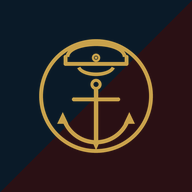
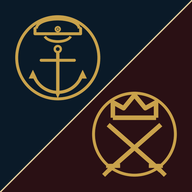
Add files via upload

diff --git a/index.html b/index.html
@@ -501,7 +501,8 @@ main.has-dock{padding-bottom:calc(var(--nav-h) + 112px + env(safe-area-inset-bot
 .panel-h{font-family:'Cinzel',serif;color:var(--brass);font-size:12.5px;text-transform:uppercase;letter-spacing:0.5px;margin:0 0 10px;}
 
 /* ---------- categorized decklist ---------- */
-.cat-group{margin-bottom:6px;}
+.cat-group{margin-bottom:6px;display:flex;flex-direction:column-reverse;}
+.cat-group > .cat-head{border-bottom:none;border-top:1px solid var(--line);}
 .cat-head{display:flex;align-items:center;gap:8px;padding:8px 2px;cursor:pointer;border-bottom:1px solid var(--line);}
 .cat-head .t{font-family:'Cinzel',serif;font-size:12.5px;color:var(--brass);text-transform:uppercase;letter-spacing:0.5px;flex:1;}
 .cat-head .n{font-size:11px;color:var(--sub-text);font-family:'JetBrains Mono',monospace;}
@@ -1073,12 +1074,13 @@ main.has-dock{padding-bottom:84px;}
 /* The current section's name rides just below the top bar; the next
    section's label pushes it out — classic sticky headers, scoped per
    section. Solid backing so it stays readable over the tiles. */
-.edh-sec > .section-label{position:sticky;top:66px;z-index:5;background:var(--bg,#2A1014);padding:6px 2px;}
+.edh-sec{display:flex;flex-direction:column;}
+.edh-sec > .section-label{order:10;position:sticky;top:auto;bottom:calc(var(--nav-h) + env(safe-area-inset-bottom));z-index:5;background:var(--ink);padding:6px 2px;}
 /* Overlays scroll inside <main>, whose top edge already sits under the
    overlay topbar — the 66px offset above is browse-page tuning (under the
    app nav) and pins the label mid-screen there. Hug the scrollport instead. */
-.overlay main .edh-sec > .section-label{top:0;}
-#recoOverlay .edh-sec > .section-label{top:var(--reco-sticky, 0px) !important;z-index:6;}
+.overlay main .edh-sec > .section-label{top:auto;bottom:0;}
+#recoOverlay .edh-sec > .section-label{top:auto !important;bottom:0;z-index:6;}
 #recoOverlay .edh-jump-row{top:calc(var(--reco-sticky, 0px) + 4px) !important;z-index:7;}
 .edh-jump-row{top:70px;}
 .reco-theme-banner{width:fit-content;margin:0 auto 8px;padding:6px 14px;border:1px solid var(--brass);border-radius:999px;color:var(--brass);font-size:13px;font-weight:600;text-align:center;}
@@ -3325,21 +3327,15 @@ const LS_PREFIX = 'admiral_app:';
    BOTH languages every release). Every
    player sees the popup exactly once after the update lands. Also bump the
    VERSION string in sw.js so phones fetch the new build. */
-const APP_VERSION = '2.51.250';
+const APP_VERSION = '2.51.251';
 const CHANGELOG_NOTES = {
   en: [
-    'Spoilers: each day\u2019s date shelf now sits UNDER its cards, and a set\u2019s name, release date and preview count moved to the foot of its page.',
-    'Every card grid now reads upward \u2014 search results, decklists, My Stuff, collection, binders, printings and recommendations start at the bottom (A, most popular, most recent by the thumb) and climb.',
-    'Fresh search results open at the foot of the page.',
-    'Inspiration: the welcome text steps aside as soon as results show, and the Commander fleet now opens with \u201CFind Your Commander\u201D.',
-    'The Advanced-filters bar finally wears its field blue.'
+    'Category words moved to the FOOT of their cards: Creatures, Instants and every other decklist header now sit under their group, and the New/Top/theme titles on recommendation pages pin to the bottom edge while their section scrolls.',
+    'Fresh app icons: a true half-and-half of both fleets \u2014 the Admiral anchor on navy and the Commander swords on dark red, split on the same diagonal the launch screen wears.'
   ],
   nl: [
-    'Spoilers: de datumbalk van elke dag staat nu ONDER zijn kaarten, en de naam, releasedatum en previewtelling van een set verhuisden naar de voet van de pagina.',
-    'Elk kaartenraster leest nu omhoog \u2014 zoekresultaten, decklijsten, Mijn Stuff, collectie, mappen, versies en aanbevelingen beginnen onderaan (A, populairst, meest recent bij de duim) en klimmen op.',
-    'Verse zoekresultaten openen aan de voet van de pagina.',
-    'Inspiratie: de welkomsttekst wijkt zodra er resultaten zijn, en de Commander-vloot opent nu met \u201CVind je Commander\u201D.',
-    'De balk Geavanceerde filters draagt eindelijk zijn veldblauw.'
+    'Categoriewoorden verhuisden naar de VOET van hun kaarten: Wezens, Instants en elke andere decklijst-kop staan nu onder hun groep, en de Nieuwe/Top/thematitels op aanbevelingspagina\u2019s blijven aan de onderrand plakken terwijl hun sectie scrolt.',
+    'Nieuwe app-iconen: een echte helft-om-helft van beide vloten \u2014 het Admiral-anker op marineblauw en de Commander-zwaarden op donkerrood, gedeeld langs dezelfde diagonaal als het startscherm.'
   ]
 };
 /* ---------- First-visit welcome (new players usually arrive via a shared

diff --git a/sw.js b/sw.js
@@ -5,7 +5,7 @@
    - Fonts + Scryfall card images: cache-first (they never change for a given
      URL), keeping repeat browsing fast and cheap.
    - Scryfall API responses are NOT cached — searches and prices stay live. */
-const VERSION = 'admiral-v2.51.250';
+const VERSION = 'admiral-v2.51.251';
 const SHELL = ['./', './index.html', './manifest.json', './format.txt', './icon-192.png', './icon-512.png'];
 
 self.addEventListener('install', (e) => {
